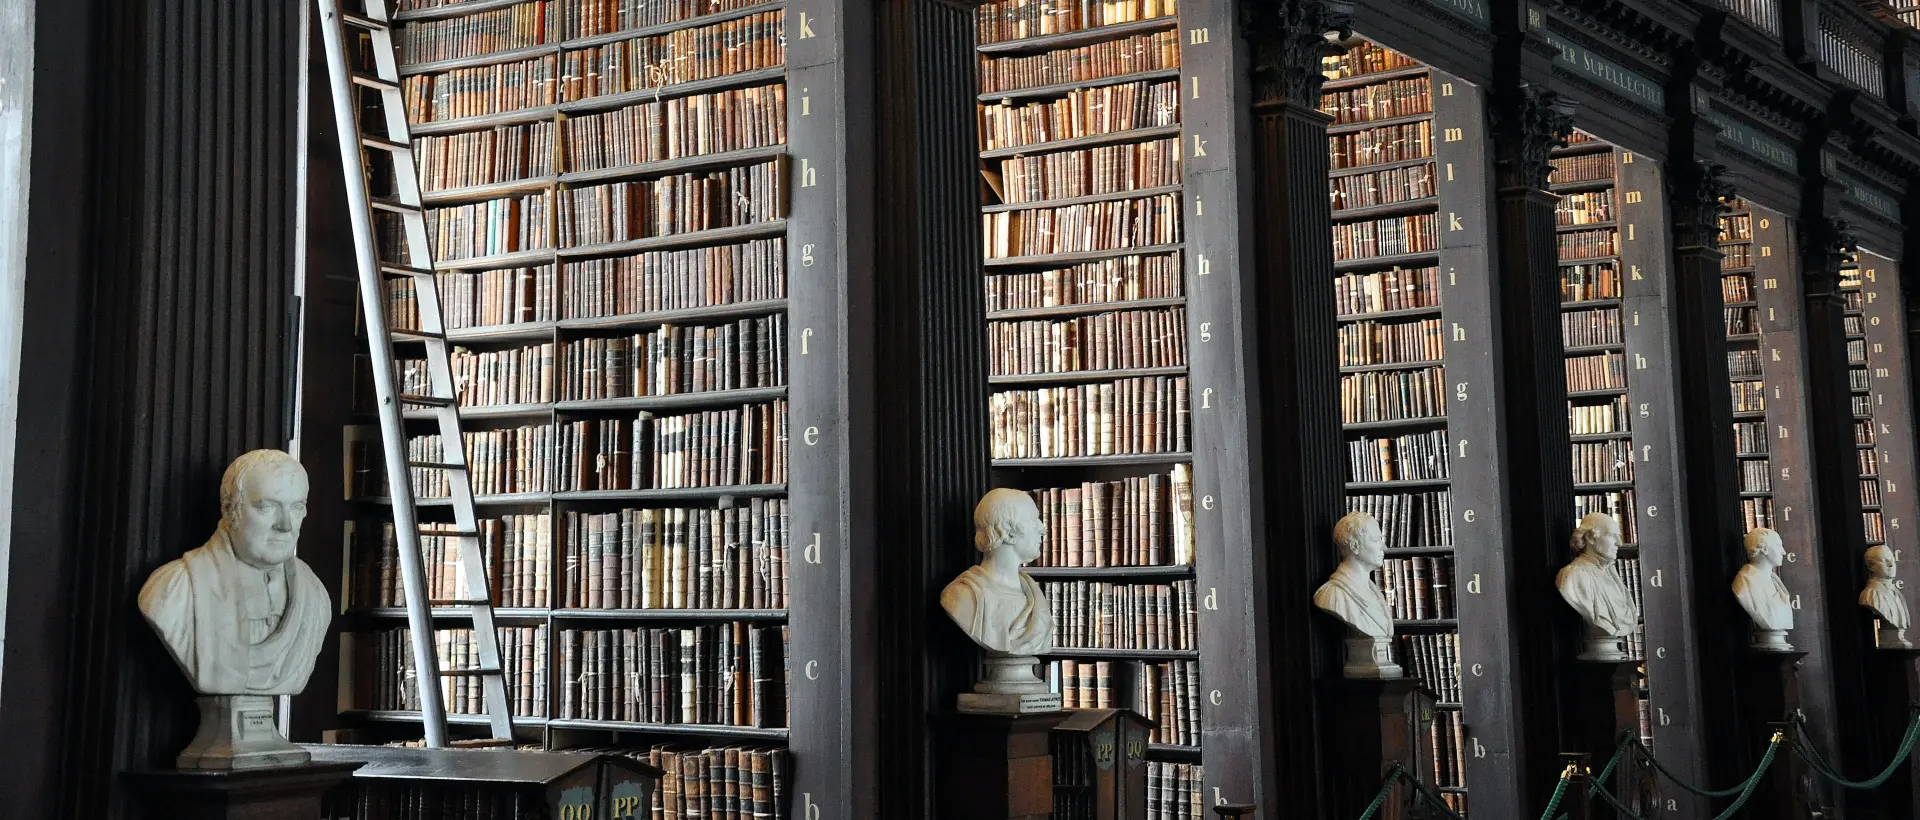
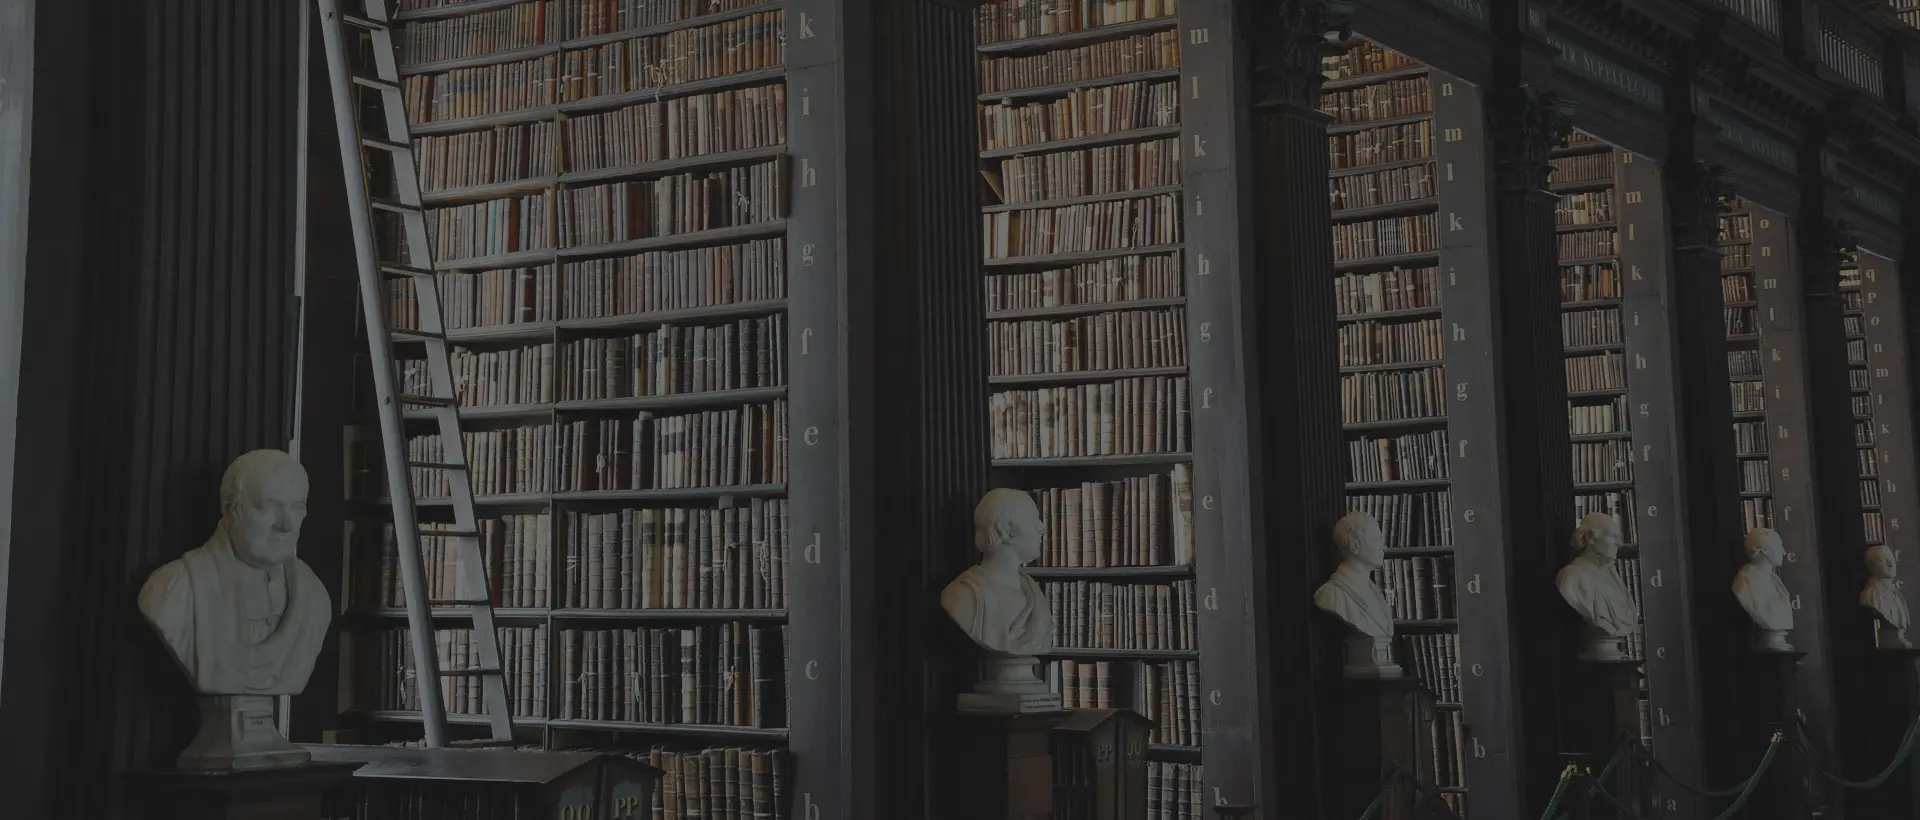
add: hero section

diff --git a/index.html b/index.html
@@ -13,6 +13,7 @@
     />
   </head>
   <body>
+    <!-- Header -->
     <header class="header">
       <div class="header__top">
         <div class="container header__wrapper">
@@ -67,7 +68,43 @@
         </div>
       </div>
     </header>
-
+    <main>
+      <!-- Hero -->
+      <section class="hero">
+        <div class="container hero__container">
+          <h1 class="hero__title">
+            <span class="hero__title_top">Оказываем весь комплекс</span>
+            <span class="hero__title_bottom">Юридических услуг</span>
+          </h1>
+          <p class="hero__subtitle">
+            Давно выяснено, что при оценке дизайна и композиции читаемый текст
+            мешает сосредоточиться. Lorem Ipsum используют потому, что тот
+            обеспечивает более или менее стандартное заполнение.
+          </p>
+          <a class="hero__link" href="#">Наши услуги</a>
+          <div class="hero__slider slider">
+            <div class="slider__pagination">
+              <span class="slider__page slider__page_active"></span>
+              <span class="slider__page"></span>
+              <span class="slider__page"></span>
+            </div>
+            <div class="slider__nav">
+              <button class="slider__btn slider__btn_left">
+                <svg class="slider__icon slider__icon_left">
+                  <use xlink:href="#arrowright"></use>
+                </svg>
+              </button>
+              <span class="slider__separator"></span>
+              <button class="slider__btn slider__btn_right">
+                <svg class="slider__icon slider__icon_right">
+                  <use xlink:href="#arrowright"></use>
+                </svg>
+              </button>
+            </div>
+          </div>
+        </div>
+      </section>
+    </main>
     <!-- SVG SPRITES -->
     <svg width="0" height="0" class="hidden">
       <symbol

diff --git a/src/styles/style.css b/src/styles/style.css
@@ -301,4 +301,102 @@ body {
   .burger__list {
     width: 100vw;
   }
+}
+.hero {
+  height: 820px;
+  padding: 260px 0 24px;
+  background: #b9b9b9 url("../images/bg/hero_bg.webp") no-repeat center/cover;
+}
+.hero__container {
+  height: 820px;
+  display: flex;
+  flex-direction: column;
+}
+.hero__title_top {
+  color: #fff;
+  font-size: 30px;
+  font-weight: 300;
+  line-height: 150%;
+  text-transform: uppercase;
+  display: block;
+  text-align: center;
+}
+.hero__title_bottom {
+  color: #4f8ff0;
+  font-size: 56px;
+  font-weight: 600;
+  line-height: 150%;
+  text-transform: uppercase;
+  margin-top: 8px;
+  display: block;
+  text-align: center;
+}
+.hero__subtitle {
+  color: #fff;
+  text-align: center;
+  font-size: 20px;
+  font-weight: 400;
+  line-height: 120%;
+  margin-top: 8px;
+  max-width: 1090px;
+  margin: 0 auto;
+}
+.hero__link {
+  border: 2px solid #4f8ff0;
+  background: #4f8ff0;
+  color: var(--white-color-100, #fff);
+  text-align: center;
+  font-size: 14px;
+  font-weight: 900;
+  line-height: 120%;
+  text-transform: uppercase;
+  padding: 16px 22px;
+  display: block;
+  margin: 48px auto 0;
+  max-width: 158px;
+  transition: 0.2s;
+}
+.hero__link:hover {
+  background: #115ac8;
+}
+.hero__slider {
+  margin-top: auto;
+}
+
+.slider {
+  display: flex;
+  flex-direction: row;
+  align-items: center;
+  justify-content: space-between;
+}
+.slider__pagination {
+  display: flex;
+  justify-content: space-between;
+  align-items: flex-end;
+  width: 28px;
+}
+.slider__page {
+  width: 4px;
+  height: 24px;
+  background: #e6e6e6;
+  display: block;
+}
+.slider__page_active {
+  height: 40px;
+  background: #4f8ff0;
+}
+.slider__nav {
+  width: 70px;
+  display: flex;
+  flex-direction: row;
+  align-items: center;
+  justify-content: space-between;
+}
+.slider__btn {
+  width: 20px;
+  height: 20px;
+}
+.slider__icon {
+  width: 20px;
+  height: 20px;
 }/*# sourceMappingURL=style.css.map */

diff --git a/src/styles/sections/_hero.scss b/src/styles/sections/_hero.scss
@@ -1,0 +1,70 @@
+.hero {
+  height: 820px;
+  padding: 260px 0 24px;
+
+  background: #b9b9b9 url("../images/bg/hero_bg.webp") no-repeat center/cover;
+
+  &__container {
+    height: 820px;
+    display: flex;
+    flex-direction: column;
+  }
+
+  &__title {
+    &_top {
+      color: #fff;
+      font-size: 30px;
+      font-weight: 300;
+      line-height: 150%;
+      text-transform: uppercase;
+      display: block;
+      text-align: center;
+    }
+    &_bottom {
+      color: $accent-color;
+      font-size: 56px;
+      font-weight: 600;
+      line-height: 150%;
+      text-transform: uppercase;
+      margin-top: 8px;
+      display: block;
+      text-align: center;
+    }
+  }
+
+  &__subtitle {
+    color: #fff;
+    text-align: center;
+    font-size: 20px;
+    font-weight: 400;
+    line-height: 120%;
+    margin-top: 8px;
+    max-width: 1090px;
+    margin: 0 auto;
+  }
+
+  &__link {
+    border: 2px solid $accent-color;
+    background: $accent-color;
+    color: var(--white-color-100, #fff);
+    text-align: center;
+    font-size: 14px;
+    font-weight: 900;
+    line-height: 120%;
+    text-transform: uppercase;
+    padding: 16px 22px;
+    display: block;
+    margin: 48px auto 0;
+    max-width: 158px;
+
+    transition: 0.2s;
+
+    &:hover {
+      background: darken($accent-color, 20);
+    }
+  }
+
+  &__slider {
+    margin-top: auto;
+  }
+}

diff --git a/src/styles/blocks/_slider.scss b/src/styles/blocks/_slider.scss
@@ -1,0 +1,38 @@
+.slider {
+  @include flex-row-sb-ai;
+
+  &__pagination {
+    display: flex;
+    justify-content: space-between;
+    align-items: flex-end;
+    width: 28px;
+  }
+
+  &__page {
+    width: 4px;
+    height: 24px;
+    background: #e6e6e6;
+    display: block;
+
+    &_active {
+      height: 40px;
+      background: $accent-color;
+    }
+  }
+
+  &__nav {
+    width: 70px;
+    @include flex-row-sb-ai;
+
+  }
+
+  &__btn {
+    width: 20px;
+    height: 20px;
+  }
+
+  &__icon {
+    width: 20px;
+    height: 20px;
+  }
+}

diff --git a/src/styles/style.scss b/src/styles/style.scss
@@ -8,3 +8,5 @@
 @import "./blocks/link";
 @import "./blocks/nav";
 @import "./blocks/burger";
+@import "./sections/hero";
+@import "./blocks/slider";
